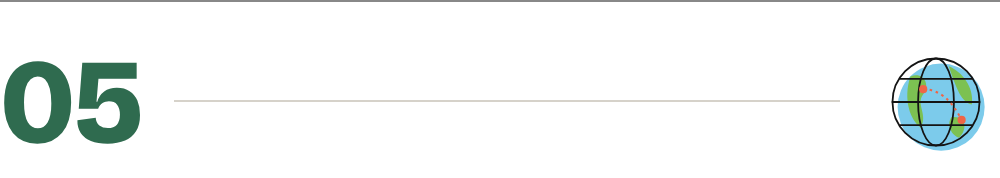
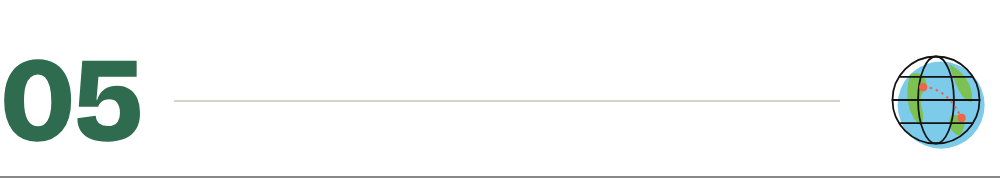
Ancient astronauts article v2
Claude-Session: https://claude.ai/code/session_01XfWUPJBpMU9DcUT1rPeUfA

diff --git a/payload/newpost.js b/payload/newpost.js
@@ -15,7 +15,7 @@ const dt=new DataTransfer();dt.setData('text/html',h);dt.setData('text/plain','x
 const imgs=()=>{const r=[];pm.editor.state.doc.descendants((n,pos)=>{if(n.type.name==='IMAGE')r.push({pos,id:n.attrs.image&&n.attrs.image.src&&n.attrs.image.src.id,loading:n.attrs.loading});});return r;};
 for(const k of P.keys){window.__npst='img '+k;const para=[...pm.querySelectorAll('p')].find(x=>x.innerText.trim()==='§§'+k+'§§');if(!para){log.push(k+' noph');continue;}
  const before=new Set(imgs().map(x=>x.id));const sel=getSelection();const r=document.createRange();r.selectNodeContents(para);sel.removeAllRanges();sel.addRange(r);pm.focus();await S(200);document.execCommand('delete');await S(300);
- const isPng=B[k].type==='image/png';const d2=new DataTransfer();d2.items.add(new File([B[k]],P.slug+'-'+k.toLowerCase()+(isPng?'.png':'.jpg'),{type:isPng?'image/png':'image/jpeg'}));pm.dispatchEvent(new ClipboardEvent('paste',{clipboardData:d2,bubbles:true,cancelable:true}));
+ const src=P.imgs[k];const ext=/\.gif$/i.test(src)?'gif':/\.png$/i.test(src)?'png':'jpg';const mime={gif:'image/gif',png:'image/png',jpg:'image/jpeg'}[ext];const d2=new DataTransfer();d2.items.add(new File([B[k]],P.slug+'-'+k.toLowerCase()+'.'+ext,{type:mime}));pm.dispatchEvent(new ClipboardEvent('paste',{clipboardData:d2,bubbles:true,cancelable:true}));
  let got=null;for(let i=0;i<120;i++){await S(1000);const nw=imgs().filter(x=>!before.has(x.id)&&x.id&&!x.loading&&/~mv2/.test(x.id));if(nw.length){got=nw[0];break;}}
  if(!got){log.push(k+' TIMEOUT');continue;}
  const ed=pm.editor;const n=ed.state.doc.nodeAt(got.pos);ed.view.dispatch(ed.state.tr.setNodeMarkup(got.pos,null,{...n.attrs,altText:P.alts[k]}));await S(300);}
